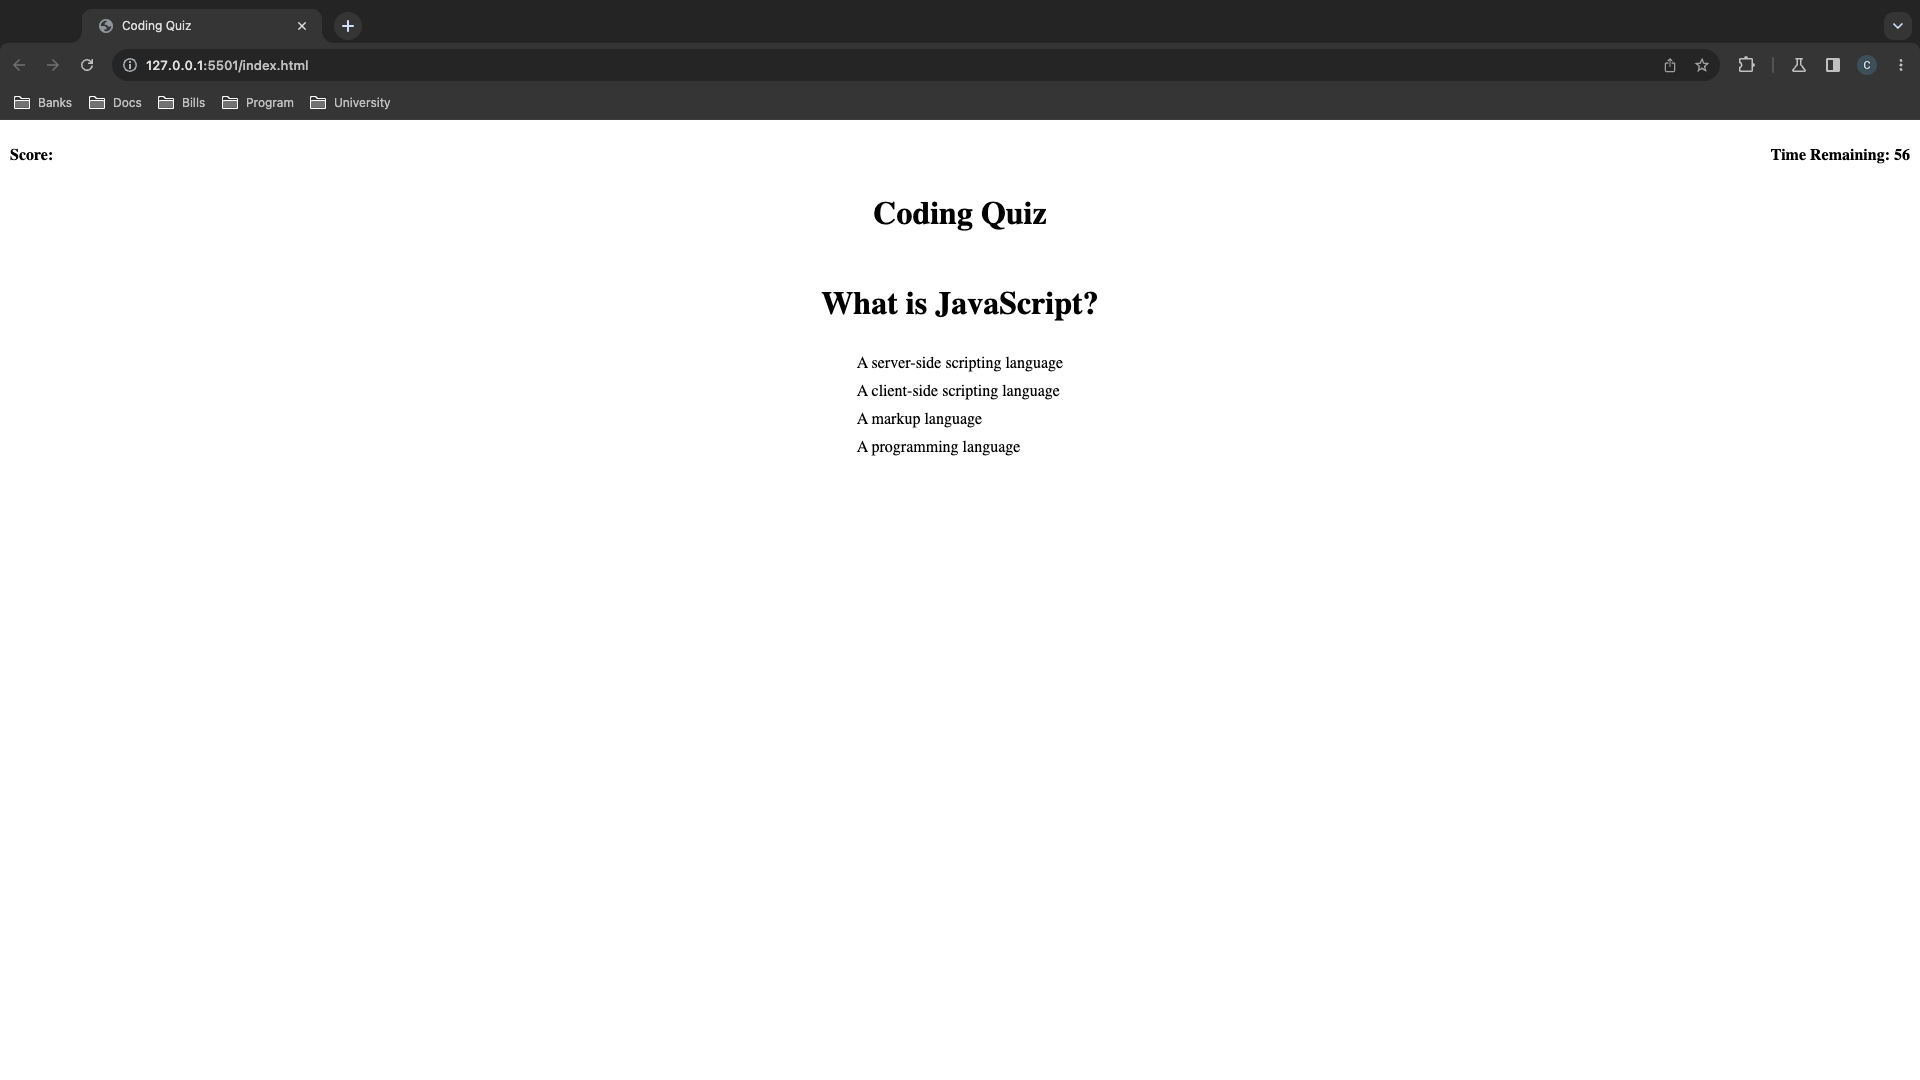
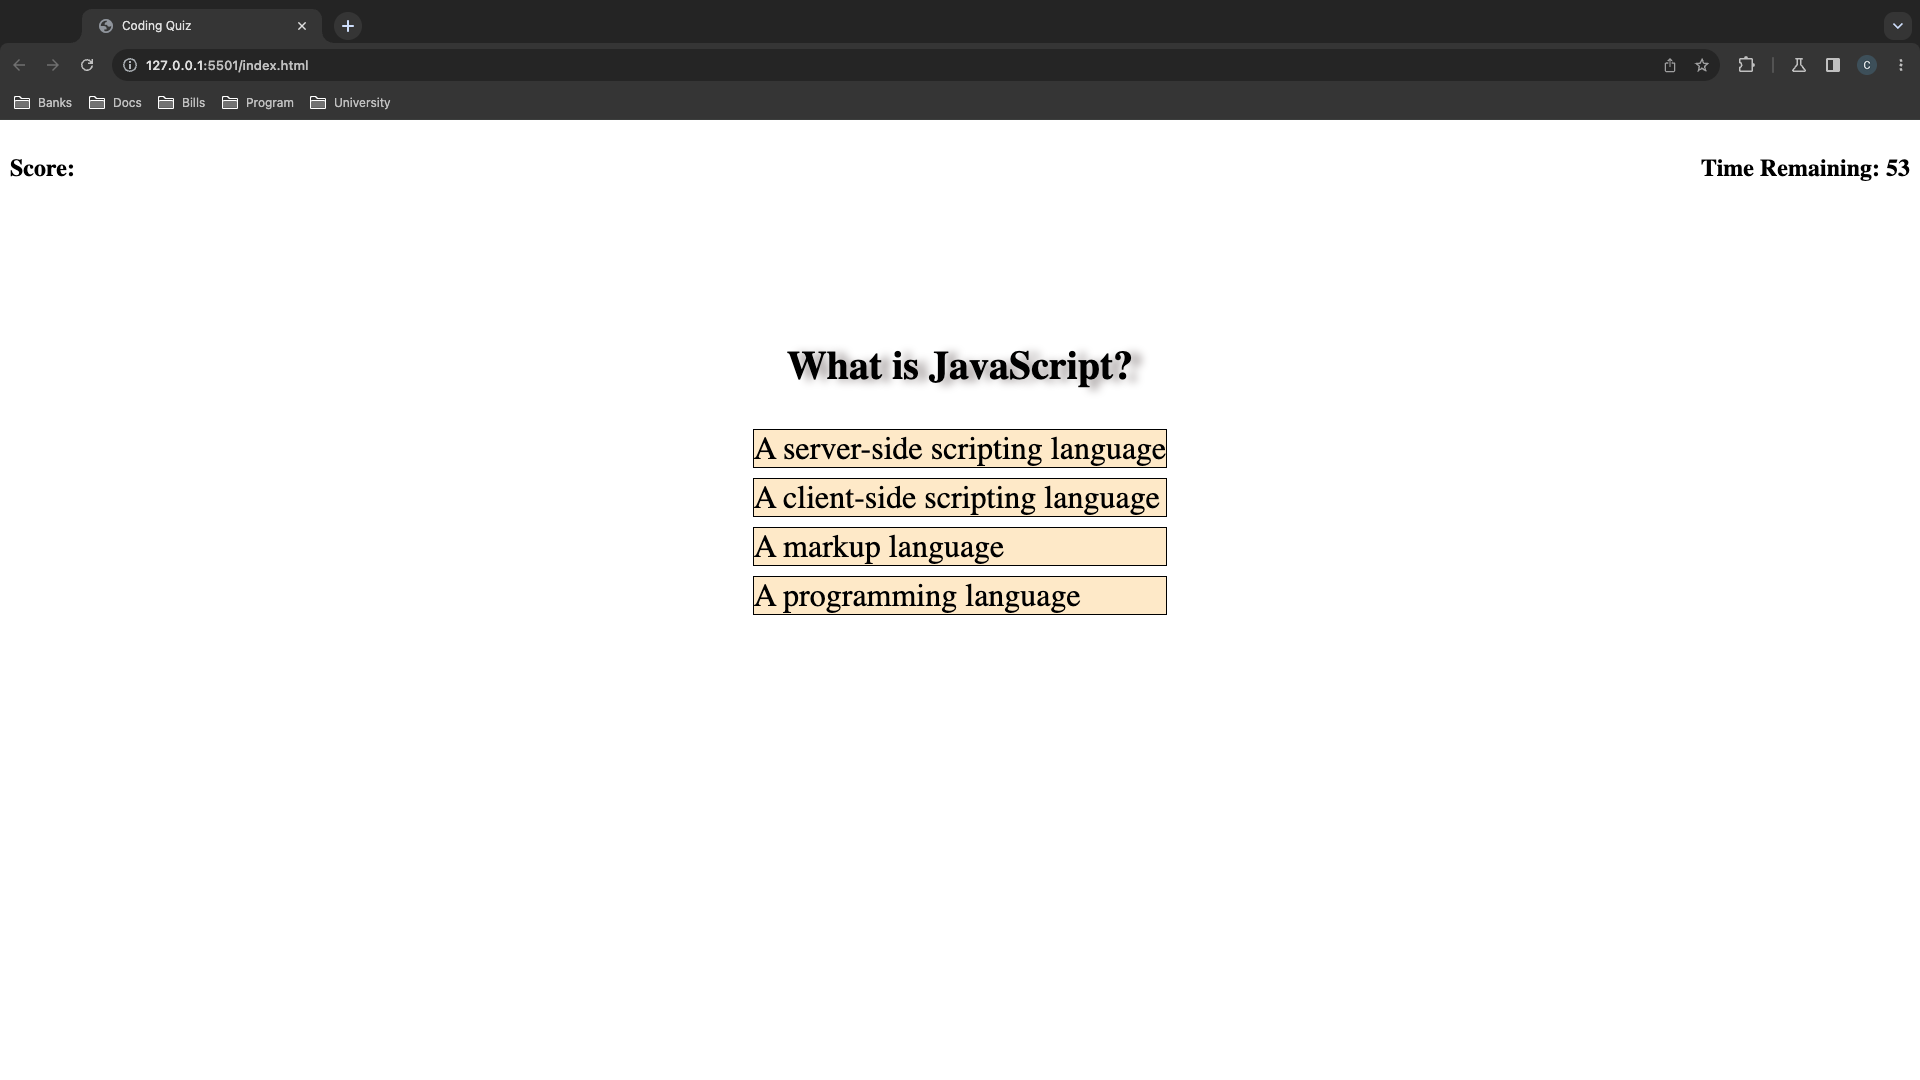
updated screenshots & style for high scores

diff --git a/assets/style.css b/assets/style.css
@@ -77,4 +77,5 @@ button {
   font-size: 35px;
   background-color: rgb(145, 113, 174);
   margin-right: 75px;
+  border: 2px solid black;
 }

diff --git a/README.md b/README.md
@@ -5,17 +5,20 @@
 - Project was created to build a timed coding quiz with multiple-choice questions
 - Program has start button to start timer & question
 - Program asks next question after i respond on first question
-- Program subtracts time if answer is incorrect
-- Program is over if all questions are answered or tomer reaches 0
-- Program saves initial score
+- Program subtracts 5 seconds if answer is incorrect
+- Program is over if all questions are answered or timer reaches 0
+- Program saves initial & score
+- Program clears score if you press the button
+- Program restarts the quiz when you press restart
 
 ## Usage
 
 When you press "Start Quiz", presents questions. In left top corner is score count, and in right top corner is timer count. User has to answer 7 questions in 60 seconds and at the end he is presented with his score.
 
-![Start](/assets/screenshots/start.png)
+![Start](/assets/screenshots/inicial.png)
 ![Question](/assets/screenshots/question.png)
-![Score](/assets/screenshots/score.png)
+![Wrong Answer](/assets/screenshots/wrong.png)
+![Save Score](/assets/screenshots/save-score.png)
 
 GitHub Repo: https://github.com/c0nstantin1990/Coding-Quiz
 Website Link: https://c0nstantin1990.github.io/Coding-Quiz/
